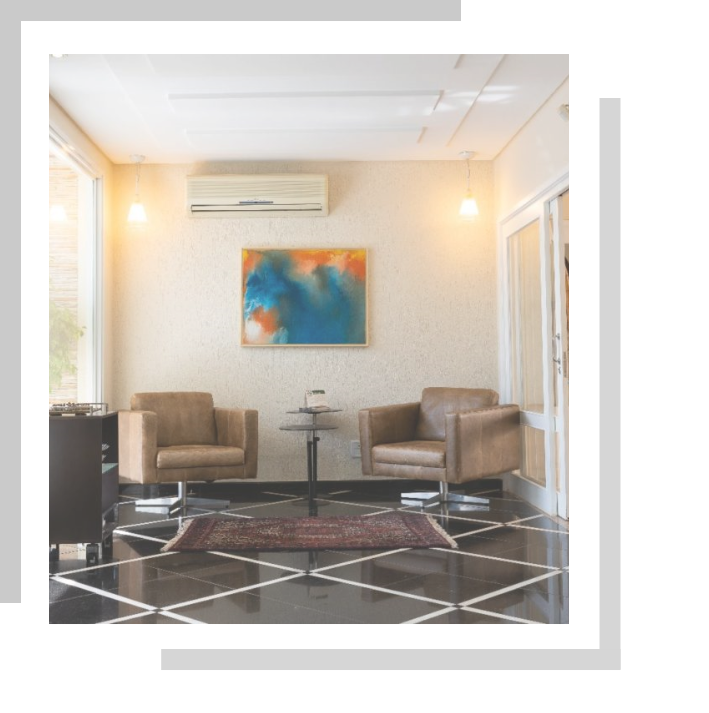
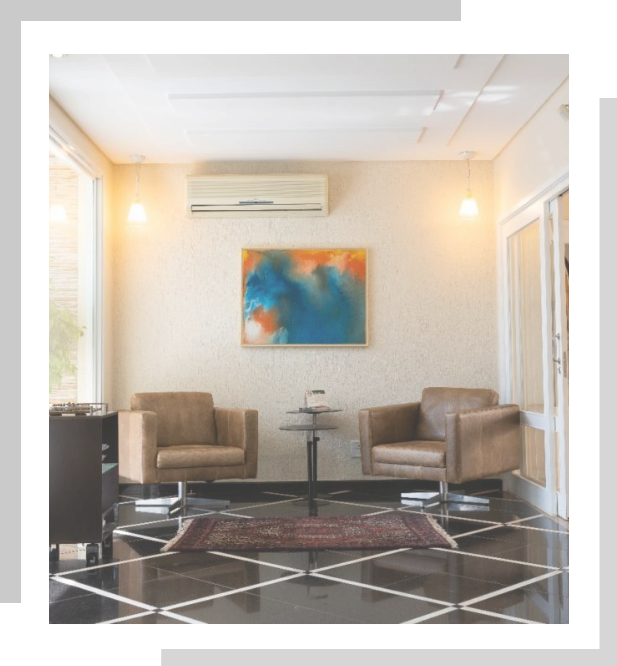
fix: finalized photoText component

diff --git a/src/components/PhotoText/styles.js b/src/components/PhotoText/styles.js
@@ -19,16 +19,13 @@ export const Container = styled.div`
     flex-direction: ${props => (props.firstPhoto ? 'column' : 'column-reverse')};
   }
 
-  .flex-column {
+  .photo {
     display: flex;
     flex: 1;
     flex-direction: column;
     justify-content: center;
-    align-items: center;
-  }
+    align-items: ${props => (props.firstPhoto ? 'flex-end' : 'flex-start')};
 
-  .photo {
-    align-items: ${props => props.firstPhoto ? 'flex-end' : 'center'};
     height: 100vh;
     background: transparent;
 
@@ -36,33 +33,33 @@ export const Container = styled.div`
       align-items: center;
       height: 100%;
       width: 100vw;
-
     }
 
     img {
-      height: 70%;
+      height: auto;
+      width: 65%;
     }
   }
 
   .text {
+    display: flex;
+    flex: 1;
+    flex-direction: column;
+    justify-content: center;
+    align-items: center;
+
     height: 100vh;
     background: transparent;
-
-    ${media.desktop}{
-      height: 100%;
-      width: 100vw;
-    }
 
     h1 {
       text-align: left;
       font-size: 3.0em;
       color: #202020;
-
-      padding-left: ${props => props.firstPhoto ? '5%' : '20%'};
-      padding-right: ${props => props.firstPhoto ? '20%' : '5%'};
+      padding-left: ${props => (props.firstPhoto ? '5%' : '35%')};
+      padding-right: ${props => (props.firstPhoto ? '35%' : '5%')};
       ${media.desktop}{
-        padding-left: 12%;
-        padding-right: 12%;
+        padding-left: 5%;
+        padding-right: 5%;
       }
     }
 
@@ -71,13 +68,12 @@ export const Container = styled.div`
       font-size: 1.4em;
       color: #202020;
 
-      padding-top: 15px;
-      padding-left: ${props => props.firstPhoto ? '5%' : '20%'};
-      padding-right: ${props => props.firstPhoto ? '20%' : '5%'};
-
+      padding-top: 20px;
+      padding-left: ${props => (props.firstPhoto ? '5%' : '35%')};
+      padding-right: ${props => (props.firstPhoto ? '35%' : '5%')};
       ${media.desktop}{
-        padding-left: 12%;
-        padding-right: 12%;
+        padding-left: 5%;
+        padding-right: 5%;
       }
     }
   }

diff --git a/src/components/PhotoText/index.js b/src/components/PhotoText/index.js
@@ -8,12 +8,11 @@ function PhotoText({ title, text, photo, inverse }) {
   return (
     <Container firstPhoto={!inverse}>
 
-
-      <div className="photo flex-column">
+      <div className="photo">
         <img src={photo} />
       </div>
 
-      <div className="text flex-column">
+      <div className="text">
         <div className="box-text">
           <h1>{title}</h1>
           <p>{text.p1 ? text.p1 : ''}</p>
